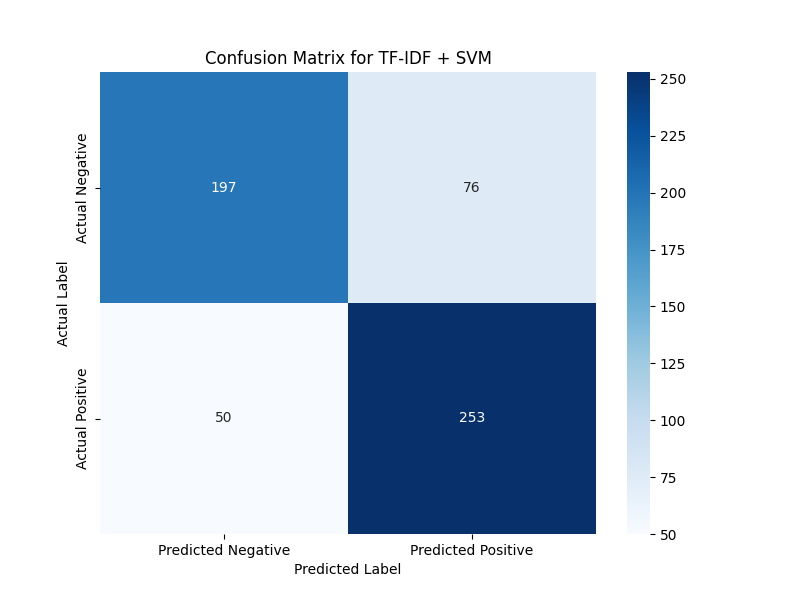
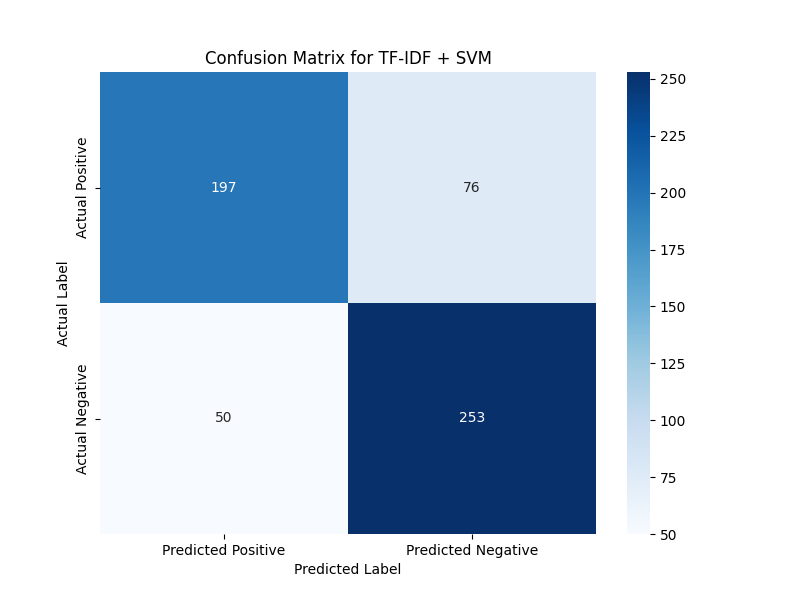
lstm

diff --git a/TF-IDF_SVM/tfidf_svm.py b/TF-IDF_SVM/tfidf_svm.py
@@ -2,7 +2,7 @@
 import pandas as pd
 import os
 import seaborn as sns
-import matplotlib.pyplot as plt
+import matplotlib.pyplot as plt #for data visualization
 from sklearn.model_selection import train_test_split
 from sklearn.feature_extraction.text import TfidfVectorizer
 from sklearn.svm import SVC
@@ -13,25 +13,25 @@ script_dir = os.path.dirname(os.path.abspath(__file__))
 parent_dir = os.path.dirname(script_dir)
 csv_path = os.path.join(parent_dir, 'cleaned_dataset_lemmatized.csv')
 
-# --- LOAD THE DATASET ---
+# LOAD THE DATASET 
 print(f"Attempting to load dataset from: {csv_path}")
 try:
     df = pd.read_csv(csv_path)
 except FileNotFoundError:
-    print(f"\n--- ERROR: FILE NOT FOUND at {csv_path} ---")
-    # ... (error message from before) ...
+    print(f"\nERROR: FILE NOT FOUND at {csv_path} ")
+    #  (error message from before) 
     exit()
 
 df['Cleaned'] = df['Cleaned'].fillna('')
 X = df['Cleaned']
 y = df['Target']
 
-# --- SPLIT DATA ---
+# SPLIT DATA 
 X_train, X_test, y_train, y_test = train_test_split(
     X, y, test_size=0.2, random_state=42, stratify=y
 )
 
-# --- FEATURE EXTRACTION (TF-IDF) ---
+#  FEATURE EXTRACTION (TF-IDF)
 print("\nCreating character-level TF-IDF features...")
 tfidf = TfidfVectorizer(
     analyzer='char', ngram_range=(2, 4), max_features=5000
@@ -41,17 +41,17 @@ X_test_tfidf = tfidf.transform(X_test)
 print("Training vectorized shape:", X_train_tfidf.shape)
 print("Testing vectorized shape:", X_test_tfidf.shape)
 
-# --- MODEL TRAINING (SVM) ---
+#  MODEL TRAINING (SVM)
 print("\nTraining Support Vector Machine (SVM) model...")
 model = SVC(kernel='linear', class_weight='balanced', random_state=42)
 model.fit(X_train_tfidf, y_train)
 
-# --- EVALUATION ---
+# EVALUATION 
 print("\nEvaluating model on the test set:")
 y_pred = model.predict(X_test_tfidf)
 
-# --- SAVE CLASSIFICATION REPORT ---
-# This is your key result with precision, recall, f1-score
+# SAVE CLASSIFICATION REPORT 
+#result with precision, recall, f1-score
 report = classification_report(y_test, y_pred)
 print(report) # Print report to the console
 
@@ -64,21 +64,35 @@ with open(report_path, 'w') as f:
 print(f"\nClassification report saved to: {report_path}")
 
 
-# --- GENERATE AND SAVE CONFUSION MATRIX ---
-# This shows a breakdown of correct vs. incorrect predictions
-conf_matrix = confusion_matrix(y_test, y_pred)
+# GENERATE AND SAVE CONFUSION MATRIX 
+# --- VISUALIZATION (Confusion Matrix) ---
+import seaborn as sns 
+import matplotlib.pyplot as plt
+from sklearn.metrics import confusion_matrix
 
-# Create a heatmap for visualization
-plt.figure(figsize=(8, 6))
-sns.heatmap(conf_matrix, annot=True, fmt='d', cmap='Blues',
-            xticklabels=['Predicted Negative', 'Predicted Positive'],
-            yticklabels=['Actual Negative', 'Actual Positive'])
-plt.title('Confusion Matrix for TF-IDF + SVM')
-plt.ylabel('Actual Label')
-plt.xlabel('Predicted Label')
+# Generate the confusion matrix from the test labels and predictions
+cm = confusion_matrix(y_test, y_pred)
 
-# Define the path to save the image (it will also be in the TF-IDF_SVM folder)
-matrix_path = os.path.join(script_dir, 'confusion_matrix_tfidf_svm.png')
-plt.savefig(matrix_path)
-print(f"Confusion matrix image saved to: {matrix_path}")
+# Define the class names in the correct order (0=Positive, 1=Negative)
+class_names = ['Positive', 'Negative']
 
+# Create a figure and axes
+fig, ax = plt.subplots(figsize=(8, 6))
+
+# Create the heatmap
+sns.heatmap(cm, annot=True, fmt='d', cmap='Blues', ax=ax)
+
+# Set the labels for the axes
+ax.set_xlabel('Predicted Label')
+ax.set_ylabel('Actual Label')
+ax.set_title('Confusion Matrix for TF-IDF + SVM')
+
+# Set the tick labels to our class names
+ax.xaxis.set_ticklabels(['Predicted ' + name for name in class_names])
+ax.yaxis.set_ticklabels(['Actual ' + name for name in class_names])
+
+# Show the plot
+plt.show()
+
+# To save the figure to a file for your report:
+# fig.savefig("confusion_matrix_tfidf_svm.png")
